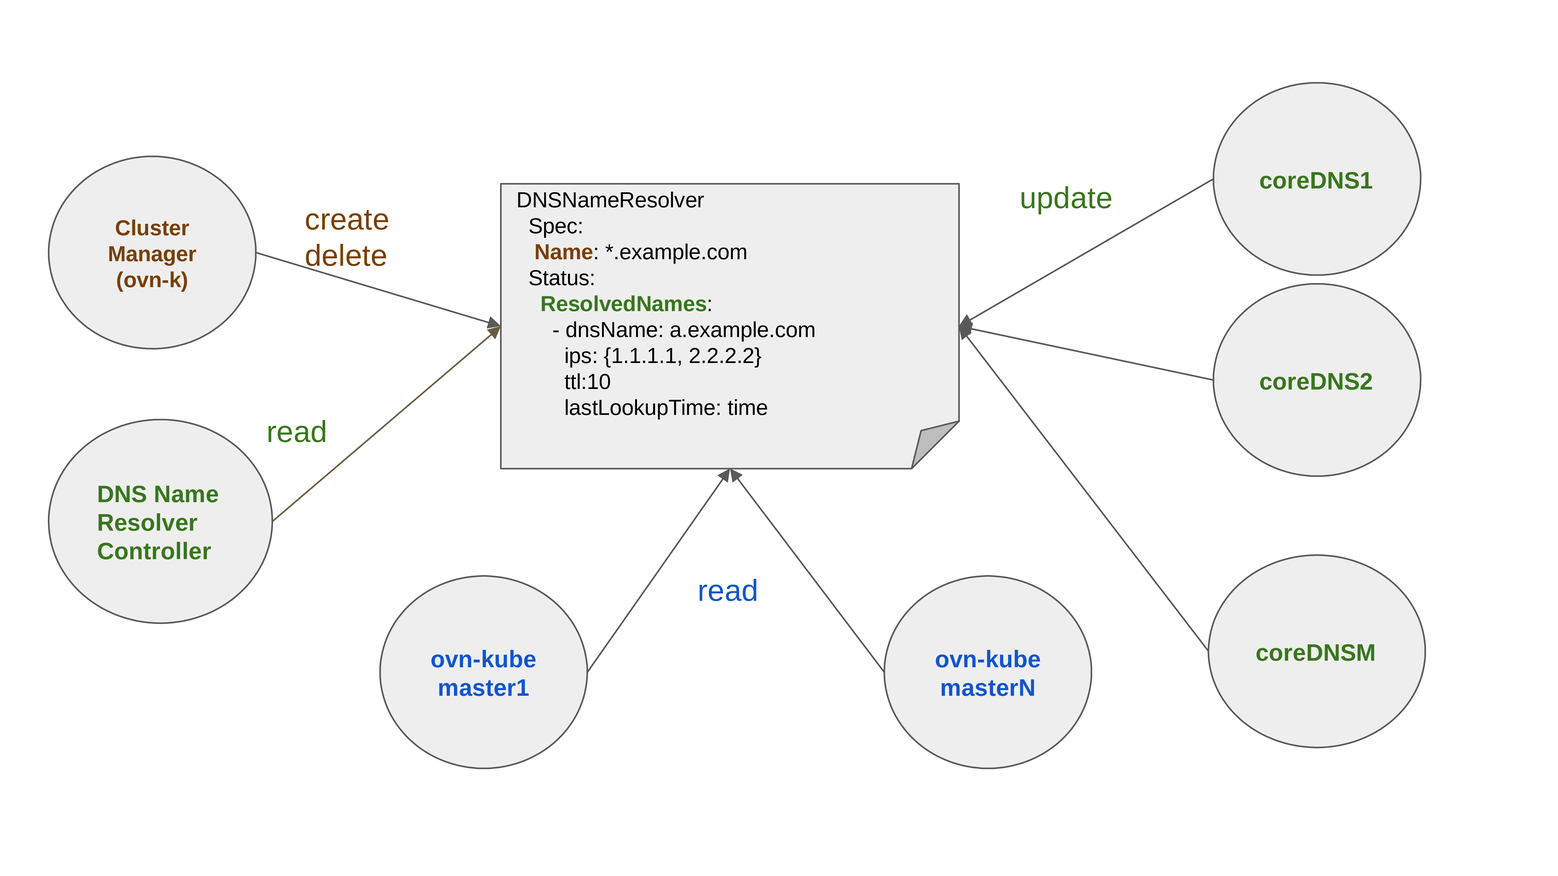
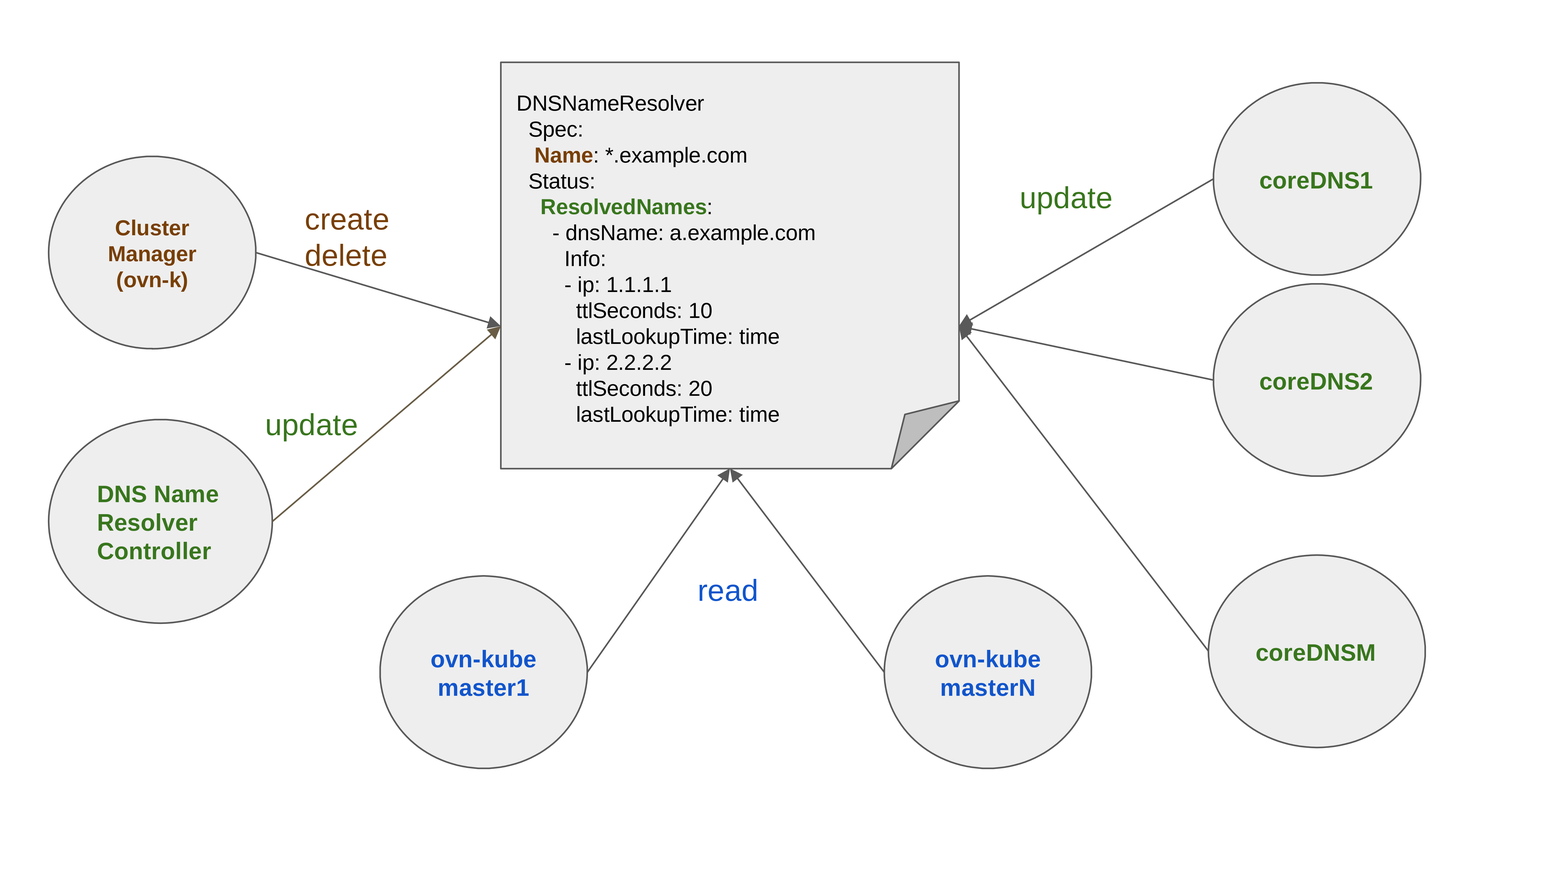
Updated the EP to account for different TTL and last lookup time for each IP address for the same DNS name

Changed region(s): [[0.3113, 0.0938, 0.5292, 0.5], [0.5603, 0.4375, 0.6226, 0.5312], [0.1556, 0.4688, 0.2179, 0.5]]

diff --git a/enhancements/dns/coredns-egressfirewall-integration.md b/enhancements/dns/coredns-egressfirewall-integration.md
@@ -3,18 +3,18 @@ title: coredns-egressfirewall-integration
 authors:
   - '@arkadeepsen'
 reviewers:
-  - '@Miciah'
-  - '@danwinship'
-  - '@JoelSpeed'
-  - '@TrilokGeer'
-  - '@jerpeter1'
+  - '@Miciah, for review and feedback on the components related to network edge'
+  - '@danwinship, for review and feedback on the components related to OVN-K'
+  - '@JoelSpeed, for review and feedback on the api changes'
+  - '@TrilokGeer, for review and feedback from the CFE team'
+  - '@jerpeter1, for review and feedback on the overall design'
 approvers:
   - '@Miciah'
   - '@danwinship'
 api-approvers:
   - '@JoelSpeed'
 creation-date: 2023-01-31
-last-updated: 2023-07-26
+last-updated: 2023-08-3
 tracking-link:
   - https://issues.redhat.com/browse/CFE-748
 see-also:
@@ -137,6 +137,8 @@ type DNSNameResolverSpec struct {
 	// will match 'sub1.example.com.' but won't match 'sub2.sub1.example.com.'
 	// +kubebuilder:validation:Required
 	// +kubebuilder:validation:Pattern=^(\*\.)?([A-Za-z0-9-]+\.)*[A-Za-z0-9-]+\.$
+	// +kubebuilder:validation:MaxLength=254
+	// +kubebuilder:validation:XValidation:rule="self == oldSelf",message="spec.name is immutable"
 	Name string `json:"name"`
 }
 
@@ -152,39 +154,49 @@ type DNSNameResolverStatus struct {
 	ResolvedNames []DNSNameResolverStatusItem `json:"resolvedNames,omitempty" patchStrategy:"merge" patchMergeKey:"dnsName"`
 }
 
+// +kubebuilder:validation:Pattern=`^(?:(?:25[0-5]|2[0-4][0-9]|[01]?[0-9][0-9]?)\.){3}(?:25[0-5]|2[0-4][0-9]|[01]?[0-9][0-9]?)\/([0-9]|[1-2][0-9]|3[0-2])$|^s*((([0-9A-Fa-f]{1,4}:){7}(:|([0-9A-Fa-f]{1,4})))|(([0-9A-Fa-f]{1,4}:){6}:([0-9A-Fa-f]{1,4})?)|(([0-9A-Fa-f]{1,4}:){5}(((:[0-9A-Fa-f]{1,4}){0,1}):([0-9A-Fa-f]{1,4})?))|(([0-9A-Fa-f]{1,4}:){4}(((:[0-9A-Fa-f]{1,4}){0,2}):([0-9A-Fa-f]{1,4})?))|(([0-9A-Fa-f]{1,4}:){3}(((:[0-9A-Fa-f]{1,4}){0,3}):([0-9A-Fa-f]{1,4})?))|(([0-9A-Fa-f]{1,4}:){2}(((:[0-9A-Fa-f]{1,4}){0,4}):([0-9A-Fa-f]{1,4})?))|(([0-9A-Fa-f]{1,4}:){1}(((:[0-9A-Fa-f]{1,4}){0,5}):([0-9A-Fa-f]{1,4})?))|(:(:|((:[0-9A-Fa-f]{1,4}){1,7}))))(%.+)?s*/([0-9]|[1-9][0-9]|1[0-1][0-9]|12[0-8])$`
+// IPAddressStr is used for validation of an IP address.
+type IPAddressStr string
+
 // DNSNameResolverStatusItem describes the details of a resolved DNS name.
 type DNSNameResolverStatusItem struct {
+	// conditions provide information about the state of the DNS name.
+	// Known .status.conditions.type is: "Degraded"
+	// +optional
+	// +listType=map
+	// +listMapKey=type
+	Conditions []metav1.Condition `json:"conditions,omitempty"`
 	// dnsName is the resolved DNS name matching the name field of DNSNameResolverSpec.
 	// +kubebuilder:validation:Required
 	// +kubebuilder:validation:Pattern=^(\*\.)?([A-Za-z0-9-]+\.)*[A-Za-z0-9-]+\.$
+	// +kubebuilder:validation:MaxLength=254
 	DNSName string `json:"dnsName"`
-	// ips contains the list of IP addresses associated with the dnsName.
+	// info gives the list of associated IP addresses and the corresponding TTL and last
+	// lookup time for the dnsName.
 	// +kubebuilder:validation:Required
-	// +listType=set
-	IPs []string `json:"ips"`
+	// +listType=map
+	// +listMapKey=ip
+	Info []DNSNameResolverInfo `json:"info"`
+	// resolutionFailures keeps the count of how many consecutive times the DNS resolution failed
+	// for the dnsName. If the DNS resolution succeeds then the field will be set to zero. Upon
+	// every failure, the value of the field will be incremented by one. Upon reaching the value
+	// of 5, the details about the DNS name will be removed.
+	ResolutionFailures int `json:"resolutionFailures,omitempty"`
+}
+
+type DNSNameResolverInfo struct {
+	// ip is an IP address associated with the dnsName. The validity of the IP address expires after
+	// lastLookupTime + ttlSeconds. To refresh the information a DNS lookup will be performed on the
+	// expiration of the IP address's validity. If the information is not refreshed then it will be
+	// removed after a grace period of 1 second after the expiration of the IP address's validity.
+	// +kubebuilder:validation:Required
+	IP IPAddressStr `json:"ip"`
 	// ttlSeconds is the minimum time-to-live value among all the IP addresses.
 	// +kubebuilder:validation:Required
 	TTLSeconds int32 `json:"ttlSeconds"`
 	// lastLookupTime is the timestamp when the last DNS lookup was completed.
 	// +kubebuilder:validation:Required
 	LastLookupTime *metav1.Time `json:"lastLookupTime"`
-	// resolutionFailures keeps the count of how many times the DNS resolution failed for the
-	// dnsName field. If the DNS resolution succeeds then the field will be set to zero. Upon
-	// every failure, the value of the field will be incremented by one. Upon reaching a threshold
-	// value, the details about the DNS name will be removed.
-	ResolutionFailures int `json:"resolutionFailures,omitempty"`
-	// conditions provide information about the state of the DNS name.
-	//
-	// These are the supported conditions:
-	//
-	//   * Degraded
-	//   - True if the following conditions are met:
-	//     * The last DNS name resolution failed.
-	//   - False if any of those conditions are unsatisfied.
-	// +optional
-	// +listType=map
-	// +listMapKey=type
-	Conditions []metav1.Condition `json:"conditions,omitempty"`
 }
 ````
 
@@ -254,6 +266,16 @@ if match(event.type, "create") || match(event.type, "update"):
 
 	for each resolvedName in obj.status.resolvedNames:
 		ensure_dns_name_added(resolvedName)
+	
+	if removal_of_ips_required(obj):
+		update_dns_resolver(obj)
+		return
+
+	remaining_time_till_grace_period, is_expiring = grace_period_expires_after(obj)
+
+	if is_expiring:
+		reconcile_event_after(remaining_time_till_grace_period)
+		return
 
 else if match(event.type, "delete"):
 
@@ -266,20 +288,33 @@ else if match(event.type, "delete"):
 			if resolvedName.dnsName != obj.spec.name && match_regular_dns_name(resolvedName.dnsName) == false:
 				delete_dns_name(obj.spec.name)
 ```
-
+*  The `DNSNameResolver` controller will run dns resolution of DNS names in the background which will refresh the `.status` field of the `DNSNameResolver`
+CRs upon expiration of the validity of the corresponding IP addresses associated to the resolved names. As the CoreDNS pods are configured using the upstream
+nameservers present in the node host's `/etc/resolv.conf` file, the upstream nameservers for different CoreDNS pods may serve different IP addresses (possibly
+with different TTLs) for the same DNS name. Thus, while refreshing the information of a DNS name, the DNS lookup requests are sent to a maximum of 5 randomly
+chosen CoreDNS pods to get as many different associated IP addresses for the DNS name as possible.
 * The `DNSNameResolver` controller will watch for the events related to `DNSNameResolver` CRs.
 * After it receives the create/update events, it will perform DNS lookup for each of the DNS names corresponding to the `DNSNameResolver` CRs,
 if the details of the DNS names are not already added.
 * The `DNSNameResolver` controller will store the regular DNS name matching the `.spec.name` field of a `DNSNameResolver` CR and the
-corresponding current IP addresses along with the TTL and the next time to lookup. Based on the next time to lookup, the controller will perform DNS
+corresponding current IP addresses along with the the TTL and the last lookup time for each IP address. Using the TTL and last lookup time of all the associated
+IP addresses of a DNS name, a next lookup time for the DNS name is also stored. Based on the next lookup time, the controller will perform DNS
 lookups to get the latest IP addresses and TTL information. The DNS lookup will be intercepted by the `ocp_dnsnameresolver` plugin and will enforce an
 update of the `.status` of the CR.
 * The controller will also store the wildcard DNS name which matches the `.spec.name` field of a `DNSNameResolver` CR. If the DNS lookup is
-successful for the wildcard DNS name, then the DNS name will be stored with the corresponding current IP addresses along with the TTL and the next time to
-lookup. If the DNS lookup is not successful, then it will be retried  after a default TTL (30 minutes). The `DNSNameResolver` controller will also store
-the regular DNS names, matching the wildcard DNS name's `.status.resolvedNames[*].dnsName` field, with the corresponding current IP addresses along with the
-TTL and the next time to lookup. Based on the next time to lookup, the controller will follow the same method as that of the regular DNS names to get the
+successful for the wildcard DNS name, then the DNS name will be stored with the corresponding current IP addresses along with the TTL and the last lookup time
+for each IP address. If the DNS lookup is not successful, then it will be retried after a default TTL (30 minutes). The `DNSNameResolver` controller will
+also store the regular DNS names, matching the wildcard DNS name's `.status.resolvedNames[*].dnsName` field, with the corresponding current IP addresses along
+with the TTL and the last time to lookup for each IP address. Using the TTL and last lookup time of all the associated IP addresses of a DNS name, a next lookup
+time for the DNS name is also stored. Based on the next lookup time, the controller will follow the same method as that of the regular DNS names to get the
 latest IP addresses and TTL information.
+* The controller will also check if any IP address is needed to be removed from the `.status` field. The validity of any IP address expires after the
+corresponding next lookup time (TTL + last lookup time). However, the IP address may still be in use. Thus, a grace period of 1 second is provided for
+each IP address and on expiration of the grace period the IP address will be removed. If any IP address satisfies this condition then it is removed from
+the `.status` of the `DNSNameResolver` CR and the object is updated.
+* If the validity (TTL + last lookup time) of any of the IP addresses have expired, but the grace period of 1 second is still not over, then the same event
+will be reconciled after the grace period has expired. This is done so that during the next reconcile the IP addresses can be removed from the `.status` of the
+`DNSNameResolver` CR.
 * On receiving the delete event, the `DNSNameResolver` controller will remove the details stored regarding the `DNSNameResolver` CRs.
 * If the deleted event is for a `DNSNameResolver` corresponding to a regular DNS name, the `DNSNameResolver` controller will remove the details of a regular DNS
 name, if it doesn't match a `DNSNameResolver` CR corresponding to a  wildcard DNS name.
@@ -324,17 +359,19 @@ if match_regular_dns_name(dnsName) == false || match_wildcard_dns_name(dnsName) 
 
 if resolution_failed(response) == false:
 
-	ips, ttl = get_ips_and_ttl(response)
-	if ttl = 0:
-		ttl = min_ttl
+	ips, ttls = get_ips_and_ttls(response)
+	for each ttl in ttls {
+		if ttl = 0:
+			ttl = min_ttl
+	}
 	
 	if match_regular_dns_name(dnsName) == true:
 		objName = get_regular_dns_name_resolver_name(dnsName)
-		update_dns_resolver_success(objName, dnsName, ips, ttl, response)
+		update_dns_resolver_success(objName, dnsName, ips, ttls, response)
 	
 	if match_wildcard_dns_name(dnsName) == true:
 		objName = get_wildcard_dns_name_resolver_name(dnsName)
-		update_dns_resolver_success(objName, dnsName, ips, ttl, response)
+		update_dns_resolver_success(objName, dnsName, ips, ttls, response)
 
 else
   	
@@ -353,8 +390,8 @@ return response
 any of the `DNSNameResolver` CRs, then the plugin will update the corresponding `.status`. 
 * The plugin gets the response of a DNS lookup from other plugins and checks the response code returned. 
 * If it is a success response code, then the plugin checks whether the DNS lookup matches any `DNSNameResolver` CR belonging to a regular DNS name
-or a wildcard DNS name or both (in the case of a regular DNS name lookup). The IP addresses and minimum TTL among the IP addresses is obtained. If the
-TTL value is zero then it is set to a minimum TTL value (say 5 seconds). This is done to avoid immediate DNS lookups by the `DNSNameResolver`
+or a wildcard DNS name or both (in the case of a regular DNS name lookup). The IP addresses and the corresponding TTLs are obtained. If the
+TTL value is zero then it is set to a minimum TTL value of 5 seconds. This is done to avoid immediate DNS lookups by the `DNSNameResolver`
 controller for the same DNS names. If any of the `DNSNameResolver` CRs match, then the plugin proceeds with the update process of the `.status` of the
 `DNSNameResolver` CR when the DNS lookup is successful.
 * If it is a failure response code, then the plugin checks whether the DNS lookup matches any `DNSNameResolver` CR belonging to a regular DNS name
@@ -365,30 +402,40 @@ the update process of the `.status` of the `DNSNameResolver` CR when the DNS loo
 ##### Successful DNS lookup
 
 ```shell
-update_dns_resolver_success(objName, dnsName, ips, ttl, response):
+update_dns_resolver_success(objName, dnsName, ips, ttls, response):
 	obj = get_dns_name_resolver(objName)
 	for each resolvedName in obj.status.resolvedNames:
 		
 		if resolvedName.dnsName == dnsName:
-			if match_next_lookup_time(resolvedName.lastLookupTime, resolvedName.ttl, ttl):
-				if match_ips(resolvedName.ips, ips):
-					skip_update_of_resolvedName
+			if is_wildcard(dnsName):
+				wildcardResolvedName = resolvedName
+			unmatched_ips = []
+			unmatched_ttls = []
+			for each ip, ttl in (ips, ttls):
+				index, matched = matches_any_ip(resolvedName.info, ip)
+				if matched:
+					if match_next_lookup_time(resolvedName.info[index].ttlSeconds, resolvedName.info[index].lastLookupTime, ttl):
+						skip_update_of_resolvedName_info
+					else
+						resolvedName.info[index].ttlSeconds = ttl
+						resolvedName.info[index].lastLookupTime = now()
 				else
-					combine_ips(resolvedName.ips, ips)
-			else
-				resolvedName.ips = ips
-			resolvedName.ttl = ttl
-			resolvedName.lastLookupTime = now()
+					add_ip(unmatched_ips, ip)
+					add_ttl(unmatched_ttls, ttl)
+			if has_ips_and_ttls(unmatched_ips, unmatched_ttls) {
+				add_dns_info(resolvedName.info, unmatched_ips, unmatched_ttls)
+			}
 			resolvedName.resolutionFailures = 0
 			cond = condition{type: "Degraded", status: false, reason: success_reason(response), message: success_message(response)}
 			add_condition(resolvedName.conditions, cond)
 
 		else if is_wildcard(obj.spec.name) && resolvedName.dnsName == obj.spec.name && is_regular(dnsName)
-			&& match_next_lookup_time(resolvedName.lastLookupTime, resolvedName.ttl, ttl) && match_ips(resolvedName.ips, ips):
+			&& resolvedName_info_ips_contain_all_ips_and_match_next_lookup_times(resolvedName.info, ips, ttls, now()):
 			skip_update_of_resolvedName
 		
 		else if is_wildcard(dnsName)
-			&& match_next_lookup_time(resolvedName.lastLookupTime, resolvedName.ttl, ttl) && match_ips(resolvedName.ips, ips):
+			&& resolvedName_info_ips_contain_all_ips_and_match_next_lookup_times(
+				wildcardResolvedName.info, resolvedName.info[*].ip, resolvedName.info[*].ttlSeconds, resolvedName.info[*].lastLookTime):
 			remove(obj.status.resolvedNames, resolvedName)
 	
 	update_status_dns_name_resolver(obj)
@@ -396,25 +443,25 @@ update_dns_resolver_success(objName, dnsName, ips, ttl, response):
 
 * If a regular DNS name in the lookup matches with a `DNSNameResolver` CR corresponding to a regular DNS name, then the `.status` of
 the `DNSNameResolver` CR will be updated with the DNS name and the corresponding current IP addresses along with the TTL and the current time
-as the last lookup time.
+as the last lookup time for each IP address.
 * If a regular DNS name in the lookup matches with a `DNSNameResolver` CR corresponding to a wildcard DNS name, then the `.status` of
-the `DNSNameResolver` CR will be updated, if the IP addresses received in the response doesn't match with the IP addresses and the next lookup time
-corresponding to the wildcard DNS name. Otherwise, the plugin will update the `.status` with the regular DNS name and the corresponding current IP addresses
-along with the TTL and the next lookup time based on the TTL.
+the `DNSNameResolver` CR will not be updated, if the set of IP addresses received in the response is a subset of the wildcard DNS name's associated
+IP addresses and the corresponding next lookup times of each IP address match. Otherwise, the plugin will update the `.status` with the regular
+DNS name and the corresponding current IP addresses along with the TTL and the current time as the last lookup time for each IP address.
 * If the DNS lookup is for a wildcard DNS name and it matches with the `DNSNameResolver` CR corresponding to the wildcard DNS name,
 then the `ocp_dnsnameresolver` plugin will update the `.status` of the corresponding `DNSNameResolver` CR with the wildcard DNS name
-and the corresponding current IP addresses along with the TTL and the current lookup time as the last lookup time. If the wildcard DNS name's
-corresponding IP addresses and next lookup time (TTL + last lookup time) matches that of any other regular DNS name, added to the `.status`
-of the `DNSNameResolver` CR, then the details of the regular DNS name will be removed.
-* However, the updates will take place if there is a change in the next lookup time (TTL + last lookup time) for the DNS name or if the next
-lookup time is same for the DNS name, but the current IP addresses are different from the existing IP addresses. For the latter, the current
-IP addresses are added to the existing IP addresses of the DNS name. This will take care of the scenario where different CoreDNS pods get
-different subsets of the IP addresses in the response to the DNS lookup of the same DNS name. The next time to lookup will be same for them
-though the IP addresses may differ due to upstream DNS load balancing.
+and the corresponding current IP addresses along with the TTL and the current time as the last lookup time for each IP address.
+* If the set of associated IP addresses of any other regular DNS name is a subset of the wildcard DNS name's associated IP addresses and the corresponding
+next lookup time (TTL + last lookup time) of each IP address match, then the details of the regular DNS name will be removed.
+* However, the updates will take place if there is a change in the next lookup time (TTL + last lookup time) for the existing IP addresses
+or if the current IP addresses are different from the existing IP addresses. For the latter, the current IP addresses are added to the existing
+IP addresses of the DNS name. This will take care of the scenario where different CoreDNS pods get different subsets of the IP addresses in the
+response to the DNS lookup of the same DNS name.
 * Additionally, the exact matching of the next lookup time may never be successful. If the existing next lookup time of a DNS name lies
-within a threshold value (say 5 seconds) of the current lookup time, specifically lies in the range defined by
-`[current lookup time - threshold duration, current lookup time + threshold duration]`, then they are considered as same.
-* The `Degraded` condition of the DNS name will be set to `false` along with the success reason and message.
+within a threshold value (say 1 second) of the new lookup time, specifically lies in the range defined by
+`[new lookup time - threshold duration, new lookup time + threshold duration]`, then they are considered as same.
+* The `Degraded` condition of the DNS name will be set to `false` along with the success reason and message. The `resolutionFailures` field for
+the DNS name will be set to 0.
 
 ##### DNS lookup failure
 
@@ -423,11 +470,13 @@ update_dns_resolver_failure(objName, dnsName, response):
 	obj = get_dns_name_resolver(objName)
 	for each resolvedName in obj.status.resolvedNames:
 		if resolvedName.dnsName == dnsName:
-			if resolvedName.resolutionFailures == threshold:
+			if resolvedName.resolutionFailures == 5:
 				remove(obj.status.resolvedNames, resolvedName)
 			else
-				resolvedName.ttl = min_ttl
-				resolvedName.lastLookupTime = now()
+				for each dns_info in resolvedName.info:
+					if matches_next_lookup_time(dns_info.ttlSeconds, dns_info.lastLookupTime, now()):
+						dns_info.ttlSeconds = min_ttl
+						dns_info.lastLookupTime = now()
 				resolvedName.resolutionFailures = resolvedName.resolutionFailures + 1
 				cond = condition{type: "Degraded", status: true, reason: failure_reason(response), message: failure_message(response)}
 				add_condition(resolvedName.conditions, cond)
@@ -436,11 +485,11 @@ update_dns_resolver_failure(objName, dnsName, response):
 ```
 
 * If a DNS name (regular or wildcard) matches a `DNSNameResolver` CR, then the corresponding resolved name field in the `.status` will be updated.
-* If the corresponding `resolutionFailures` field has reached a threshold value (say 5), then the details of the DNS name will be removed from the
+* If the corresponding `resolutionFailures` field has reached a threshold value of 5, then the details of the DNS name will be removed from the
 `.status` of the `DNSNameResolver` CR.
-* Otherwise, the `ttl` field will be set to the minimum TTL value (say 5 seconds) and the `lastLookupTime` time will be set to the current time. The
-`resolutionFailures` will be incremented by one. Additionally, the `Degraded` condition of the DNS name will be set to `true` along with the failure reason 
-and message.
+* Otherwise, the `ttlSeconds` field will be set to the minimum TTL value of 5 seconds and the `lastLookupTime` time will be set to the current time
+for each IP address whose next lookup time matches the current time. The `resolutionFailures` will be incremented by one. Additionally, the `Degraded`
+condition of the DNS name will be set to `true` along with the failure reason and message.
 
 
 #### Workflow of OVN-K master(s)
@@ -505,16 +554,19 @@ The implementation changes needed for the proposed enhancement are documented in
 #### Cluster DNS Operator
 
 Cluster DNS Operator will deploy CoreDNS with the `ocp_dnsnameresolver` plugin enabled by adding it to the corefile. For the EgressFirewall rules to
-apply consistently, even for DNS names that are resolved by custom upstreams, it will be added to all server blocks in the corefile. As the
+apply consistently, even for DNS names that are resolved by custom upstream nameservers, it will be added to all server blocks in the corefile. As the
 plugin will watch and update the `DNSNameResolver` CRs in the `network.openshift.io` api-group, proper RBAC permissions will be needed
 to be added to the `ClusterRole` for CoreDNS.
 
 The new `DNSNameResolver` controller will be added to the Cluster DNS Operator. The controller will watch the `DNSNameResolver` CRs,
 and will send DNS lookup requests for the `spec.name` field. It will also re-resolve the `status.resolvedNames[*].dnsName` fields based on the
-corresponding next lookup time(TTL + last lookup time).
+corresponding next lookup time (TTL + last lookup time).
 
 For wildcard DNS names, the controller will query for the DNS names that get added to the `.status` of the corresponding `DNSNameResolver` CR,
 including the wildcard DNS name, even if it doesn't get added to the `.status`.
+
+The controller will also remove the IP addresses whose validity has expired from the `.status` field. However, the removal will happen after a
+grace period of 1 second post the validity expiration.
 
 #### CoreDNS
 
@@ -534,7 +586,7 @@ with the current IP addresses along with the corresponding TTL and current time 
 
 The plugin will ensure that the list of the DNS names to lookup for a wildcard DNS name does not become stale if a DNS name belonging its subdomain is removed.
 To achieve this a retry counter (`resolutionFailures`) will be used for the DNS name lookups. If the lookup fails for a DNS name listed in the `.status` of a
-`DNSNameResolver` CR for a threshold number of times (say 5), then the DNS name will be removed from the `.status` by the plugin. However, the DNS lookup will
+`DNSNameResolver` CR for 5 times, then the DNS name will be removed from the `.status` by the plugin. However, the DNS lookup will
 only fail if the corresponding wildcard DNS name does not have an `A` or `AAAA` record. Otherwise, the response will be same as the IP addresses associated with
 the `A` or `AAAA` record of the wildcard DNS name.
 
@@ -575,8 +627,8 @@ EgressFirewall functionality may break. The details can be found in [Upgrade / D
 * Whenever there's a change in the IP addresses or the next lookup time (TTL + last lookup time) for a DNS name, the additional step of updating the
 related `DNSNameResolver` CRs will be executed. This will add some delay to the DNS lookup process. However, this will only
 happen whenever there's a change in the DNS information.
-* For wildcard DNS names, it is not possible to pre-emptively find out the matching regular DNS names which have different IP addresses assigned to them
-as compared to the matching wildcard DNS names. For these regular DNS names the first lookup may originate from a workload pod, in which case the pod may
+* For wildcard DNS names, it is not possible to pre-emptively find out the matching regular DNS names which have DNS records in the upstream nameservers.
+For these regular DNS names the first lookup may originate from a workload pod, in which case the pod may
 see an initial delay until the underlying ACL rules are updated with the corresponding IP addresses. However, this will happen only for the first DNS lookup
 of a particular DNS name by any pod. Subsequently, it will be handled by the `DNSNameResolver` controller to keep the IP addresses updated.
 
